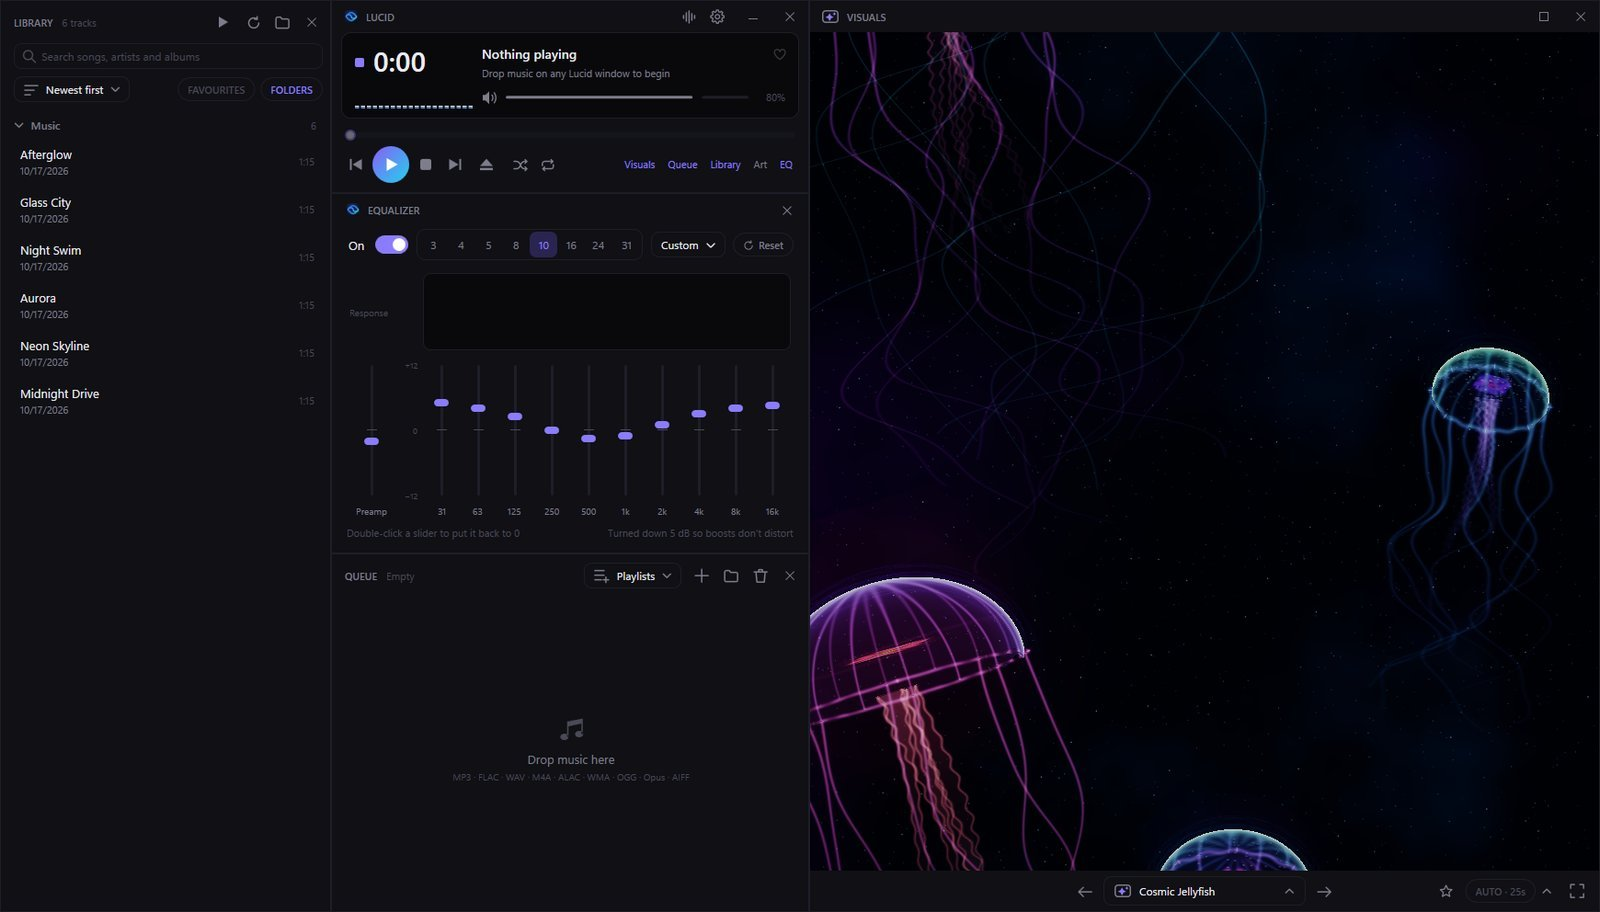
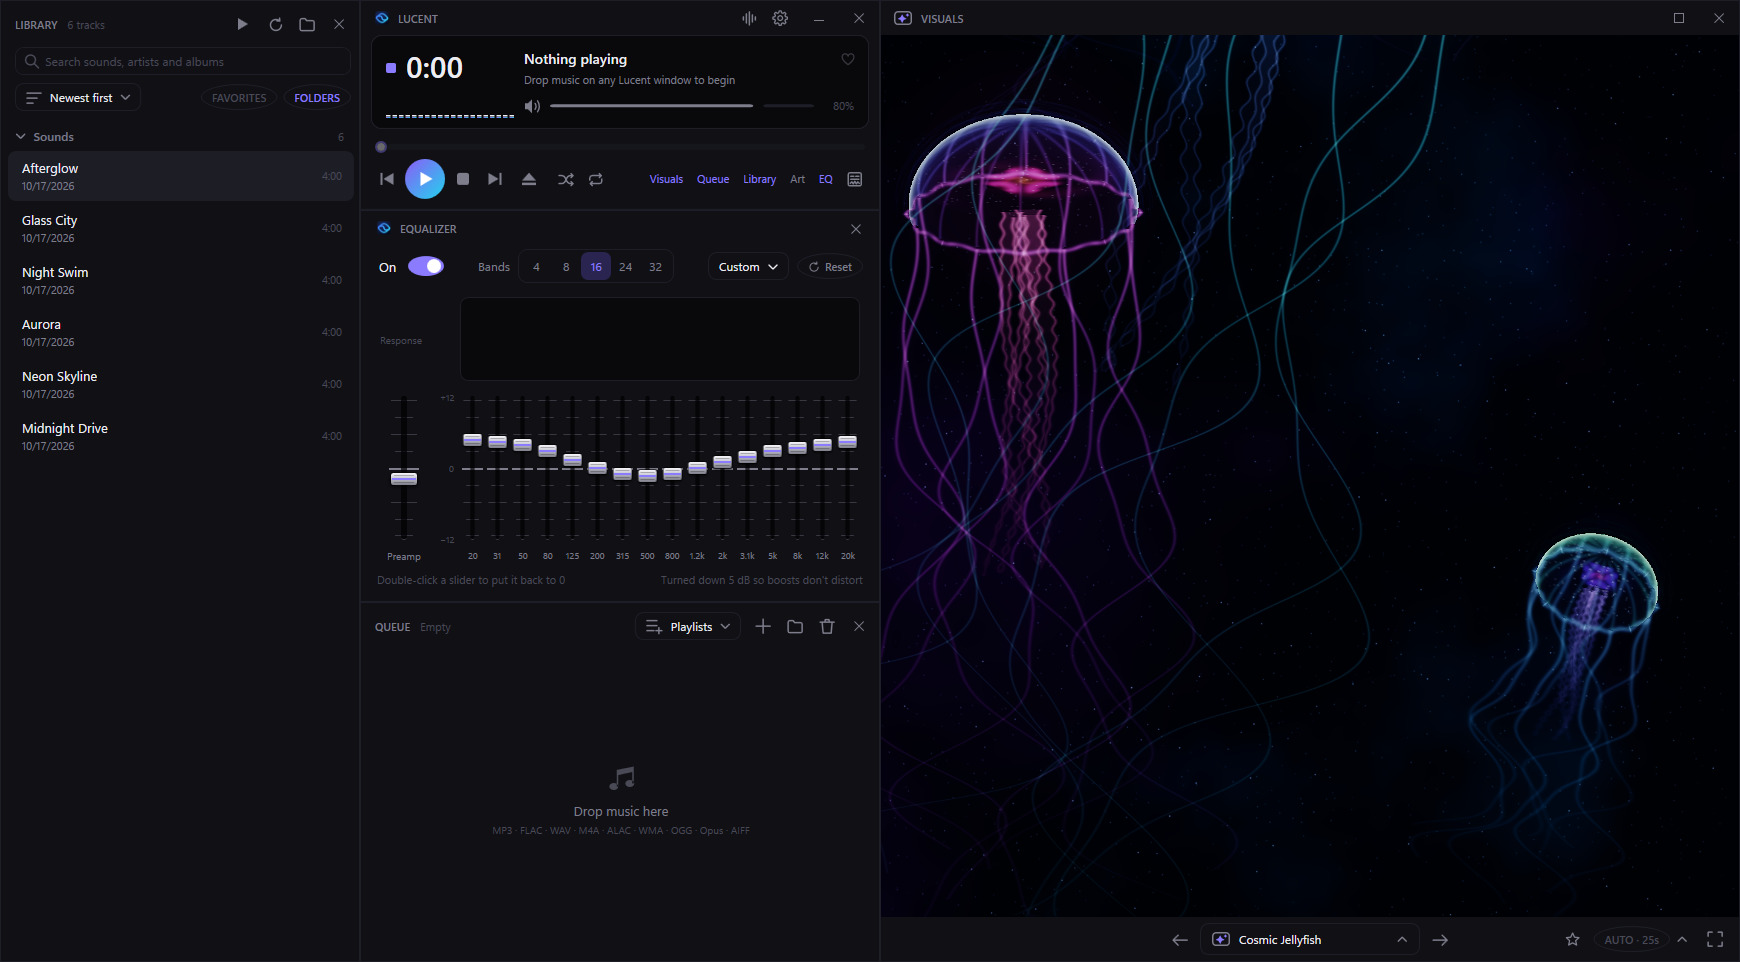
Retake the landing page's player screenshot with the current app
Claude-Session: https://claude.ai/code/session_0131hEhWXVUNk18oe5KLe973

diff --git a/site/index.html b/site/index.html
@@ -374,7 +374,7 @@ footer a:hover { color: var(--fg); }
         </div>
       </div>
       <figure class="hero-shot">
-        <div class="screen"><img src="img/player-layout.jpg" width="1600" height="912" alt="The Lucent player with its library, equalizer, queue and the Cosmic Jellyfish visual docked together"></div>
+        <div class="screen"><img src="img/player-layout.jpg" width="1740" height="962" alt="The Lucent player with its library, equalizer, queue and the Cosmic Jellyfish visual docked together"></div>
         <figcaption class="callouts" aria-hidden="true">
           <span style="left:2%">Library</span><span style="left:23%">Player and equalizer</span><span style="left:52%">Visuals, docked beside</span>
         </figcaption>
